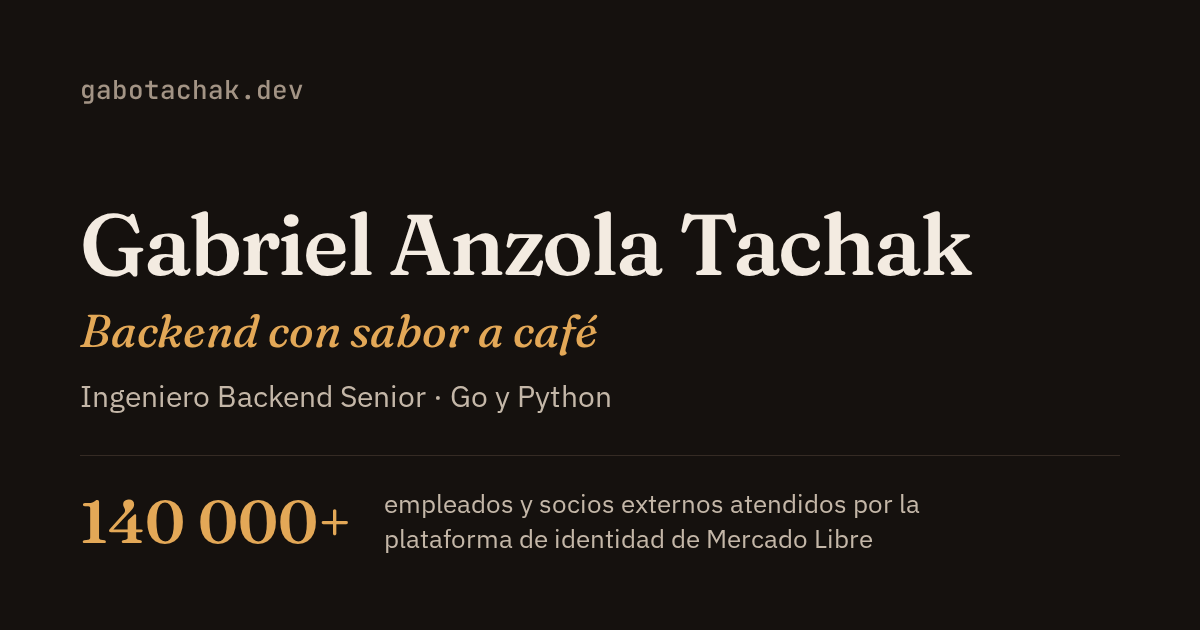
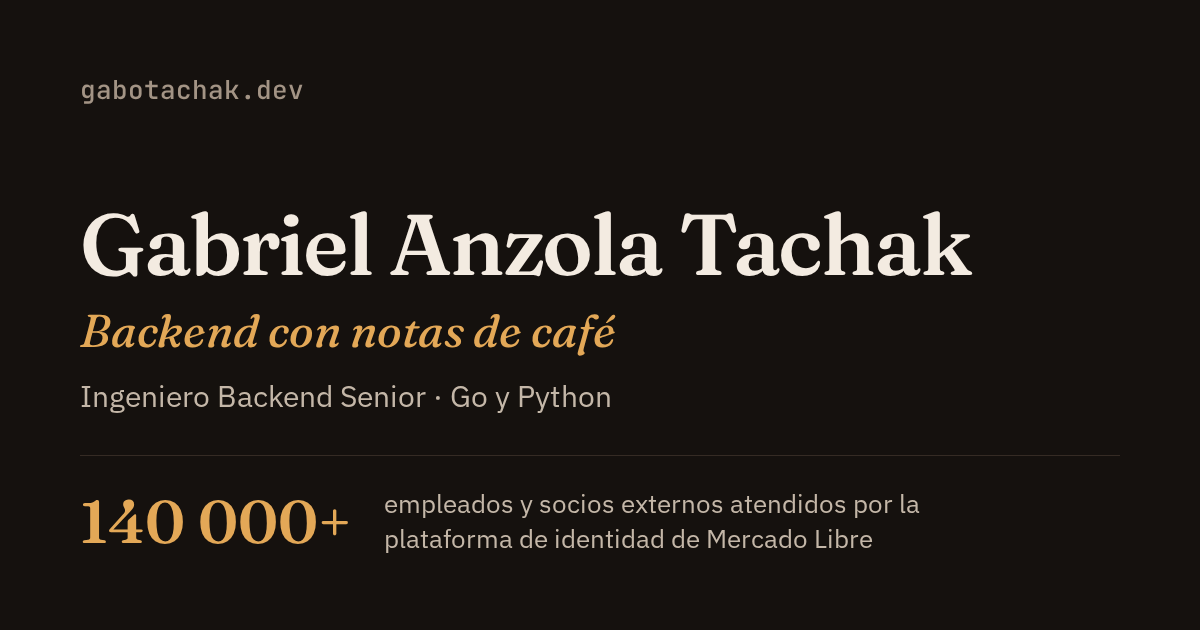
Change the Spanish tagline to "Backend con notas de café"
Claude-Session: https://claude.ai/code/session_01RbhGR51jV5ABeogTZdsktt

Changed region(s): [[0.2775, 0.4825, 0.5242, 0.573]]

diff --git a/src/i18n/translations.ts b/src/i18n/translations.ts
@@ -257,7 +257,7 @@ export const translations = {
     },
     hero: {
       eyebrow: "Ingeniero Backend Senior · Go y Python",
-      tagline: "Backend con sabor a café",
+      tagline: "Backend con notas de café",
       lede: "Construyo las APIs que deciden quién puede entrar a qué, y las hago rápidas. Cuatro años en la plataforma de identidad de Mercado Libre y después contratos backend para The Home Depot US y Compass.",
       availability: "Abierto a roles backend senior. Remoto, tiempo completo o contrato.",
       location: "Bogotá, Colombia · UTC−5",
